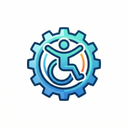
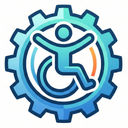
Mudando nome e icones do app

diff --git a/content/panel.js b/content/panel.js
@@ -166,7 +166,7 @@
         <defs><linearGradient id="__ha_pg1" x1="0" y1="0" x2="28" y2="28"><stop offset="0%" stop-color="#667eea"/><stop offset="100%" stop-color="#764ba2"/></linearGradient></defs>
       </svg>
       <div>
-        <div style="font-size:14px;font-weight:800;background:linear-gradient(135deg,#667eea,#764ba2);-webkit-background-clip:text;-webkit-text-fill-color:transparent;">Heuristic Auditor</div>
+        <div style="font-size:14px;font-weight:800;background:linear-gradient(135deg,#667eea,#764ba2);-webkit-background-clip:text;-webkit-text-fill-color:transparent;">HeuriLens</div>
         <div style="font-size:9px;color:#64748b;font-weight:600;letter-spacing:0.5px;text-transform:uppercase;">WCAG 2.1 + NIELSEN • ARRASTE PARA MOVER</div>
       </div>
     </div>

diff --git a/popup/popup.html b/popup/popup.html
@@ -4,7 +4,7 @@
 <head>
   <meta charset="UTF-8">
   <meta name="viewport" content="width=device-width, initial-scale=1.0">
-  <title>Heuristic Auditor</title>
+  <title>HeuriLens</title>
   <link rel="preconnect" href="https://fonts.googleapis.com">
   <link rel="preconnect" href="https://fonts.gstatic.com" crossorigin>
   <link href="https://fonts.googleapis.com/css2?family=Inter:wght@400;500;600;700;800&display=swap" rel="stylesheet">
@@ -29,7 +29,7 @@
         </svg>
       </div>
       <div>
-        <h1 class="header-title">Heuristic Auditor</h1>
+        <h1 class="header-title">HeuriLens</h1>
         <p class="header-subtitle">WCAG 2.1 + Nielsen</p>
       </div>
     </div>

diff --git a/background.js b/background.js
@@ -71,7 +71,7 @@ function generateExportReport(auditResults) {
 
   const report = {
     meta: {
-      toolName: 'Heuristic Accessibility Auditor',
+      toolName: 'HeuriLens - Heuristic Accessibility and Usability Auditor',
       version: '1.0.0',
       timestamp: new Date().toISOString(),
       url: auditResults.url || '',

diff --git a/assets/overlay-icons.css b/assets/overlay-icons.css
@@ -1,6 +1,6 @@
 /* ==============================================
    overlay-icons.css — Estilos dos ícones de alerta
-   do Heuristic Accessibility Auditor
+   do HeuriLens
    Estilo WAVE com ícones SVG diferenciados por tipo
    ============================================== */
 

diff --git a/README.md b/README.md
@@ -1,8 +1,8 @@
 <p align="center">
-  <img src="icons/icon128.png" alt="Heuristic Auditor" width="100" />
+  <img src="icons/icon128.png" alt="HeuriLens" width="100" />
 </p>
 
-<h1 align="center">Heuristic Accessibility Auditor</h1>
+<h1 align="center">HeuriLens - Heuristic Accessibility and Usability Auditor</h1>
 
 <p align="center">
   <strong>Extensão Chrome (Manifest V3) para auditoria automática de acessibilidade (WCAG 2.1) e usabilidade (Heurísticas de Nielsen).</strong>
@@ -20,7 +20,7 @@
 
 ## 📋 Sobre
 
-O **Heuristic Accessibility Auditor** é uma extensão do Google Chrome que realiza auditorias automáticas em páginas web, combinando duas perspectivas complementares:
+O **HeuriLens** é uma extensão do Google Chrome que realiza auditorias automáticas em páginas web, combinando duas perspectivas complementares:
 
 - **Acessibilidade técnica** — baseada nos critérios da [WCAG 2.1](https://www.w3.org/TR/WCAG21/) (nível A e AA)
 - **Usabilidade** — baseada nas [10 Heurísticas de Usabilidade de Jakob Nielsen](https://www.nngroup.com/articles/ten-usability-heuristics/)
@@ -173,7 +173,7 @@ Relatório completo em JSON contendo:
 ```json
 {
   "meta": {
-    "toolName": "Heuristic Accessibility Auditor",
+    "toolName": "HeuriLens",
     "version": "1.0.0",
     "timestamp": "2026-02-10T22:15:00.000Z",
     "url": "https://example.com",
